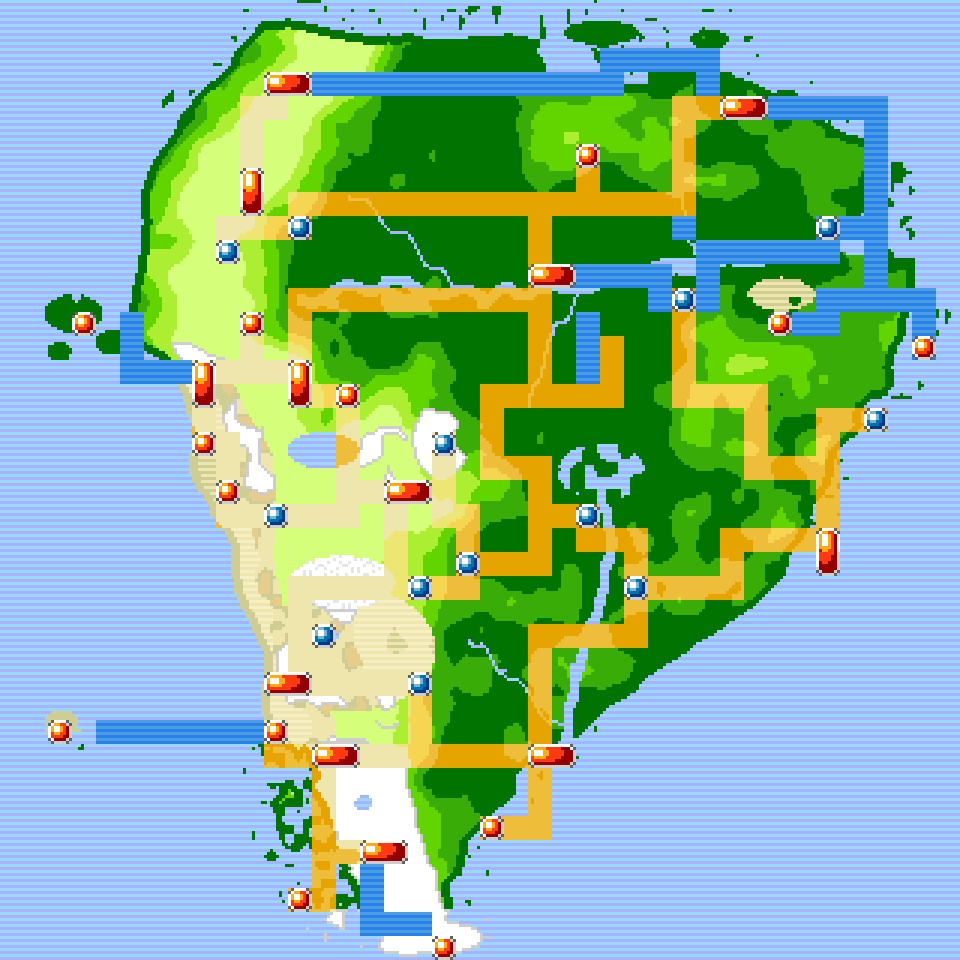
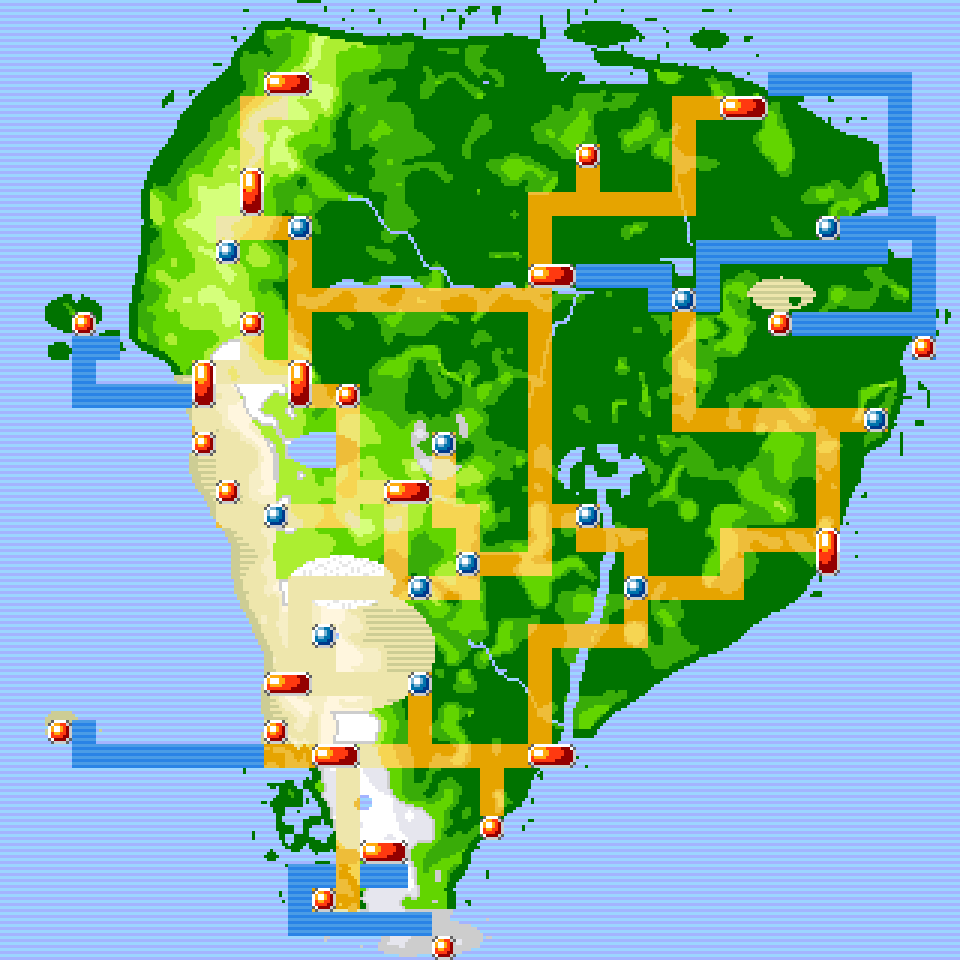
Regiokaart schets 3: Hoenn-bergjes, zeeroutes over water (BFS), Amazone als rivierbedding, routecontrole, logischer wegennet
Claude-Session: https://claude.ai/code/session_01UMtTpeD9zcUCxU9dCVsRtf

diff --git a/tools/concept/regiokaart.py b/tools/concept/regiokaart.py
@@ -51,7 +51,7 @@ def ellipse(x0, y0, rx, ry):
 def interp(pts, y):
     return np.interp(y, [p[0] for p in pts], [p[1] for p in pts])
 WEST = [(1, 11), (5, 7.5), (9, 6.5), (14, 6), (18, 8), (22, 9.5), (27, 10.5), (31, 11), (35, 12), (39, 14)]
-EAST = [(1, 19), (3, 30), (6, 36.5), (10, 38), (15, 37.5), (20, 35), (25, 31), (29, 26), (32, 22), (35, 19.5), (39, 18)]
+EAST = [(1, 19), (3, 30), (6, 36.5), (10, 38), (15, 37.8), (20, 36.6), (25, 32.6), (29, 26.5), (32, 22.8), (35.5, 19.6), (39, 18)]
 wc, ec = interp(WEST, cy), interp(EAST, cy)
 land = (cx > wc + (n - 0.5) * 2.4) & (cx < ec + (n - 0.5) * 2.8) & (cy > 1.2 + (n - 0.5) * 2) & (cy < 38.3)
 land &= ~((cy < 3.5) & (cx > 20) & (cx < 27) & (n < 0.55))                      # Caribische baai
@@ -84,8 +84,22 @@ brazil = 0.35 * np.exp(-(((cx - 31) / 4.5) ** 2 + ((cy - 17) / 5) ** 2))
 tepui = 0.35 * np.exp(-(((cx - 25) / 4) ** 2 + ((cy - 5.5) / 2) ** 2))
 amazon = np.exp(-(((cx - 25) / 9) ** 2 + ((cy - 11) / 5) ** 2))
 pantanal = np.exp(-(((cx - 25) / 2.5) ** 2 + ((cy - 19.5) / 2) ** 2))
-elev = (np.maximum(andes * 0.95, plateau * 0.8) + brazil + tepui
-        + (hills - 0.5) * 0.75 + 0.22 - amazon * 0.18 - pantanal * 0.25)
+# Hoenn-bergjes: losse ronde heuvels die na het kwantiseren geneste ringen geven (donker -> licht)
+bumps = np.zeros((PH, PW))
+br = random.Random(5)
+wx = xs + (value_noise(301, 10) - 0.5) * 18 + (value_noise(302, 5) - 0.5) * 6
+wy = ys + (value_noise(303, 10) - 0.5) * 18 + (value_noise(304, 5) - 0.5) * 6
+for _ in range(520):
+    bx, by = br.uniform(0, PW), br.uniform(0, PH)
+    ra, rb = br.uniform(4, 16), br.uniform(3, 8)
+    ang = br.uniform(0, math.pi)
+    hgt = br.uniform(0.15, 0.45)
+    dx, dy = wx - bx, wy - by
+    u = (dx * math.cos(ang) + dy * math.sin(ang)) / ra
+    v = (-dx * math.sin(ang) + dy * math.cos(ang)) / rb
+    bumps = np.maximum(bumps, hgt * np.exp(-(u * u + v * v)))
+elev = (np.maximum(andes * 0.6, plateau * 0.5) + brazil * 0.6 + tepui * 0.7
+        + bumps * 1.35 + (hills - 0.5) * 0.2 + 0.0 - amazon * 0.12 - pantanal * 0.25)
 # donkergroene rand langs de kust
 coast = np.zeros_like(land)
 p = land.copy()
@@ -94,6 +108,12 @@ for _ in range(3):
     p = p & q[:-2, 1:-1] & q[2:, 1:-1] & q[1:-1, :-2] & q[1:-1, 2:]
 coast = land & ~p
 lvl = np.digitize(elev, [0.28, 0.42, 0.6, 0.8])   # 0..4
+# losse pixels weg (meerderheid in 3x3), zoals de gladde vlakken in Hoenn
+for _ in range(2):
+    q = np.pad(lvl, 1, mode='edge')
+    stack = np.stack([q[1 + dy:PH + 1 + dy, 1 + dx:PW + 1 + dx] for dy in (-1, 0, 1) for dx in (-1, 0, 1)])
+    counts = np.stack([(stack == k).sum(0) for k in range(5)])
+    lvl = np.where(counts.max(0) >= 5, counts.argmax(0), lvl)
 lvl[coast] = 0
 
 # ---------- biomen (in Hoenn-kleuren) ----------
@@ -102,7 +122,7 @@ desert = land & (cy > 15.5) & (cy < 31) & (cx < ridge - 0.8 + (n - 0.5) * 2)
 desert |= land & ellipse(14.5, 27, 3.6, 2.6)                                       # Atacama-hoogland/Lípez
 desert |= land & ellipse(32.5, 12.2, 1.4, 0.7) & (fine > 0.3)                     # Lençóis Maranhenses
 biome[desert] = 2
-snow = land & (((lvl >= 4) & (cy > 14) & (cy < 31) & (hills > 0.6) & (n > 0.5))
+snow = land & (((lvl >= 4) & (cy > 14) & (cy < 31) & (andes > 0.75) & (biome != 2))
                | ((cy > 31) & (lvl >= 3)) | (cy > 37.8)
                | (ellipse(18.3, 18.3, 1.2, 1.6) & (lvl >= 2))                      # Cordillera Real
                | (ellipse(13.4, 28.3, 0.7, 0.5)))                                 # vulkanen/sneeuw van Lípez
@@ -143,14 +163,13 @@ def paint(mask, pal, idx):
 paint(~land, SEA, stripes)
 paint(land & (biome == 0), GREEN, lvl)
 paint(land & (biome == 2) & (lvl <= 1), SAND, stripes)
-paint(land & (biome == 2) & (lvl >= 2) & (lvl <= 3), SAND_HI, stripes)
-paint(land & (biome == 2) & (lvl >= 4), [hexc('#eee6ac'), hexc('#cdcd94'), hexc('#e6cd8b')], np.digitize(fine, [0.45, 0.7]))
+paint(land & (biome == 2) & (lvl >= 2), [hexc('#e6cd8b'), hexc('#cdcd94'), hexc('#eee6ac'), hexc('#f6eec5'), hexc('#fff6de')], lvl)
 snowedge = np.zeros_like(land)
 sm = land & (biome == 3)
 q = np.pad(sm, 1)
 snowedge = sm & ~(q[:-2, 1:-1] & q[2:, 1:-1] & q[1:-1, :-2] & q[1:-1, 2:])
-img[sm] = SNOW[0]
-img[snowedge] = SNOW[1]
+paint(sm, [GREEN[0], GREEN[1], hexc('#cdcdcd'), hexc('#e6e6ee'), hexc('#ffffff')], np.maximum(lvl, 2))
+img[snowedge & (lvl >= 2)] = SNOW[1]
 crack = ((xs.astype(int) + ys.astype(int) * 2) % 7 == 0) | ((xs.astype(int) - ys.astype(int) * 2) % 9 == 0)
 paint(land & (biome == 4), SALT, crack.astype(int))
 paint(lakes | river, SEA, stripes)
@@ -177,7 +196,7 @@ PLACES = [
     ('Aconcagua', 11, 30, 'spot'),
     ('Mendoza', 13, 31, 'cityh'),
     ('Bariloche', 15, 35, 'cityh'),
-    ('Torres del Paine', 12, 37, 'spot'),
+    ('Torres del Paine', 13, 37, 'spot'),
     ('Valdés', 20, 34, 'spot'),
     ('Buenos Aires', 22, 31, 'cityh'),
     ('Iguazú', 26, 24, 'town'),
@@ -214,48 +233,92 @@ path((16, 20), (16, 24), (17, 24))                         # La Paz -> Uyuni (gy
 path((17, 24), (12, 24), (12, 26), (13, 26))               # zoutvlakte -> Lípez (bronnen, geisers, vulkaan)
 path((13, 26), (13, 27), (12, 27), (12, 28))               # Lípez -> San Pedro
 path((17, 24), (19, 24), (19, 23))                         # Uyuni -> Potosí
-path((19, 23), (19, 21), (18, 21), (18, 18))               # Potosí -> Cordillera Real (lus)
-path((16, 20), (18, 20))
-path((16, 20), (14, 20), (14, 16), (12, 16), (12, 15))     # Titicaca -> Cuzco
+path((19, 23), (19, 21), (18, 21), (18, 18))               # Potosí -> Cordillera Real
+path((16, 20), (18, 20))                                   # La Paz -> Cordillera Real
+path((16, 20), (14, 20), (14, 16), (12, 16), (12, 15))     # langs het Titicacameer naar Cuzco
 path((12, 15), (10, 15), (10, 13))                         # Machu Picchu
 path((12, 15), (8, 15))                                    # Cuzco -> Lima
-path((8, 15), (8, 18), (9, 18), (9, 20))                   # Huacachina -> Nazca
-path((9, 20), (9, 21), (11, 21), (14, 21), (14, 20))       # Arequipa -> terug naar Titicaca (lus)
+path((8, 15), (8, 18), (9, 18), (9, 20))                   # Lima -> Huacachina -> Nazca
+path((9, 20), (9, 21), (11, 21), (14, 21), (14, 20))       # Nazca -> Arequipa -> terug naar Titicaca (lus)
 path((12, 28), (17, 28))                                   # busrit San Pedro -> Salta
-path((17, 28), (17, 31), (13, 31))                         # Salta -> Mendoza
+path((17, 28), (17, 31), (15, 31))                         # Salta -> Mendoza
 path((13, 31), (11, 31), (11, 30))                         # Aconcagua
-path((13, 31), (13, 35), (15, 35))                         # Mendoza -> Bariloche
-path((13, 35), (13, 37), (12, 37))                         # Torres del Paine
+path((14, 32), (14, 35))                                   # Mendoza -> Bariloche
+path((14, 36), (14, 37), (13, 37))                         # Torres del Paine
 path((17, 31), (22, 31))                                   # -> Buenos Aires
-path((22, 31), (22, 34), (20, 34))                         # Valdés
+path((20, 31), (20, 33))                                   # Valdés
 path((22, 31), (22, 26), (26, 26), (26, 24))               # Buenos Aires -> Iguazú
 path((26, 24), (26, 22), (24, 22), (24, 21))               # Iguazú -> Pantanal
 path((19, 23), (22, 23), (22, 21), (24, 21))               # Potosí -> Pantanal (oostelijke afdaling)
 path((26, 24), (30, 24), (30, 22), (34, 22))               # Iguazú -> Rio
 path((34, 22), (34, 17), (36, 17))                         # Rio -> Salvador
-path((12, 15), (12, 12), (22, 12), (22, 11))               # Cuzco -> Amazone-stad
-path((22, 11), (22, 8), (12, 8), (12, 9))                  # Amazone-stad -> Salento
+path((12, 15), (12, 12), (22, 12), (22, 11))               # Cuzco -> Amazone-stad (afdaling)
+path((12, 12), (12, 9))                                    # Cuzco -> Salento (Andes noordwaarts)
 path((12, 9), (10, 9), (10, 7))                            # Salento -> Medellín
 path((10, 9), (9, 9), (9, 10))                             # Quito
 path((10, 7), (10, 4), (11, 4), (11, 3))                   # Medellín -> Cartagena
-path((22, 8), (24, 8), (24, 6))                            # tepuis
+path((22, 11), (22, 8), (24, 8), (24, 6))                  # Amazone-stad -> tepuis
 path((24, 8), (28, 8), (28, 4), (30, 4))                   # -> Paramaribo
-path((22, 12), (22, 16), (20, 16), (20, 19), (22, 19), (22, 21))   # dwars door de jungle naar de Pantanal
-path((22, 16), (25, 16), (25, 14))                        # jungle-lus naar het oosten
-path((28, 12), (28, 16), (31, 16), (31, 19), (34, 19))    # Amazone-lodge -> zuid door de jungle -> Rio/Salvador
-# waterroutes: zijrivieren
-path((24, 13), (24, 15), sea=True)
-path((28, 9), (28, 7), sea=True)
-# waterroutes: de Amazone af naar zee, kust en eilanden
-path((23, 11), (27, 11), (27, 12), (28, 12), (29, 12), (29, 10), (34, 10), (34, 9), sea=True)
-path((35, 9), (36, 9), (36, 12), (34, 12), (34, 13), (33, 13), sea=True)          # Belém -> Lençóis
-path((37, 12), (38, 12), (38, 14), sea=True)
-path((13, 3), (25, 2), (29, 3), sea=True)
-path((32, 4), (36, 4), (36, 8), sea=True)                  # Paramaribo -> Belém
-path((7, 15), (5, 15), (5, 13), sea=True)                  # Lima -> Galápagos
-path((10, 30), (4, 30), sea=True)                          # Paaseiland
-path((15, 36), (15, 38), (17, 38), sea=True)               # Vuurland
+path((22, 13), (22, 21))                                   # dwars door de jungle naar de Pantanal (late game)
+path((28, 13), (28, 17), (34, 17))                         # Amazone-lodge -> zuid door de jungle -> Salvador (late game)
+
+# waterroutes: de Amazone zelf (rivierbedding) en zeeroutes die over water zoeken
+river_route = np.zeros((H, W), bool)
+def river_path(*pts):
+    for (x0, y0), (x1, y1) in zip(pts, pts[1:]):
+        for x in range(min(x0, x1), max(x0, x1) + 1):
+            river_route[y0, x] = True
+        for y in range(min(y0, y1), max(y0, y1) + 1):
+            river_route[y, x1] = True
+river_path((24, 11), (27, 11), (27, 12), (29, 12), (29, 10), (36, 10))   # Amazone -> Belém
+
+from collections import deque
+cell_water = np.array([[(~land[y * 8:(y + 1) * 8, x * 8:(x + 1) * 8]).mean() for x in range(W)] for y in range(H)])
+def sea_path(a, b):
+    """Kortste pad over vakken die vooral water zijn (rechte stukken zoals Hoenn)."""
+    ok = (cell_water >= 0.5) | river_route
+    def snap(c):   # dichtstbijzijnde watervak; het stukje kust ertussen hoort bij de route
+        best = min(((abs(x - c[0]) + abs(y - c[1]), (x, y)) for y in range(H) for x in range(W) if cell_water[y, x] >= 0.5))
+        return best[1]
+    a2, b2 = snap(a), snap(b)
+    for c, c2 in ((a, a2), (b, b2)):
+        path(c, (c2[0], c[1]), c2, sea=True)
+    a, b = a2, b2
+    prev = {a: None}
+    dq = deque([a])
+    while dq:
+        c = dq.popleft()
+        if c == b:
+            break
+        for dx, dy in ((1, 0), (-1, 0), (0, 1), (0, -1)):
+            nx, ny = c[0] + dx, c[1] + dy
+            if 0 <= nx < W and 0 <= ny < H and ok[ny, nx] and (nx, ny) not in prev:
+                prev[(nx, ny)] = c
+                dq.append((nx, ny))
+    assert b in prev, ('geen zeepad', a, b)
+    c = b
+    while c:
+        sea_route[c[1], c[0]] = True
+        c = prev[c]
+sea_path((32, 3), (35, 9))                                 # Paramaribo -> Belém
+sea_path((35, 9), (33, 13))                                # Belém -> Lençóis
+sea_path((33, 13), (38, 14))                               # -> Fernando de Noronha
+sea_path((7, 16), (4, 14))                                 # Lima -> Galápagos
+sea_path((10, 31), (3, 30))                                # Paaseiland
+sea_path((16, 36), (17, 38))                               # Vuurland
+sea_route |= river_route
 sea_route &= ~route
+# controle: landroutes op land, zeeroutes op water
+for y in range(H):
+    for x in range(W):
+        if route[y, x] and cell_water[y, x] > 0.5:
+            print('landroute op water:', x, y)
+
+# rivierbedding van de Amazone: oevers in donkergroen
+rr = np.kron(river_route, np.ones((8, 8), bool))
+q = np.pad(rr, 1)
+bank = ~rr & (q[:-2, 1:-1] | q[2:, 1:-1] | q[1:-1, :-2] | q[1:-1, 2:]) & land
+img[bank] = GREEN[0]
 
 # routes per pixel: half doorzichtig, lichter boven hoger terrein (zoals Hoenn)
 rmask = np.kron(route, np.ones((8, 8), bool))
@@ -305,7 +368,7 @@ for name, x, y, kind in PLACES:
         tx = (x + w) * 8 * S + 4
     dr.text((max(2, tx), y * 8 * S + 4), name, font=font, fill=(255, 255, 255), stroke_width=3, stroke_fill=(20, 30, 50))
 lx = PW * S + 16
-lines = [('Pokémon Fully Ungrounded', font), ('Regiokaart – schets 2', small), ('', small),
+lines = [('Pokémon Fully Ungrounded', font), ('Regiokaart – schets 3', small), ('', small),
          ('Rode pil: stad', small), ('Blauwe stip: dorp of hub', small), ('   in de natuur', small),
          ('Rode stip: bijzondere plek', small), ('Oranje: route', small), ('Donkerblauw: waterroute', small),
          ('', small), ('Lichter groen: hoger', small), ('Zand: woestijn en duinen', small),
